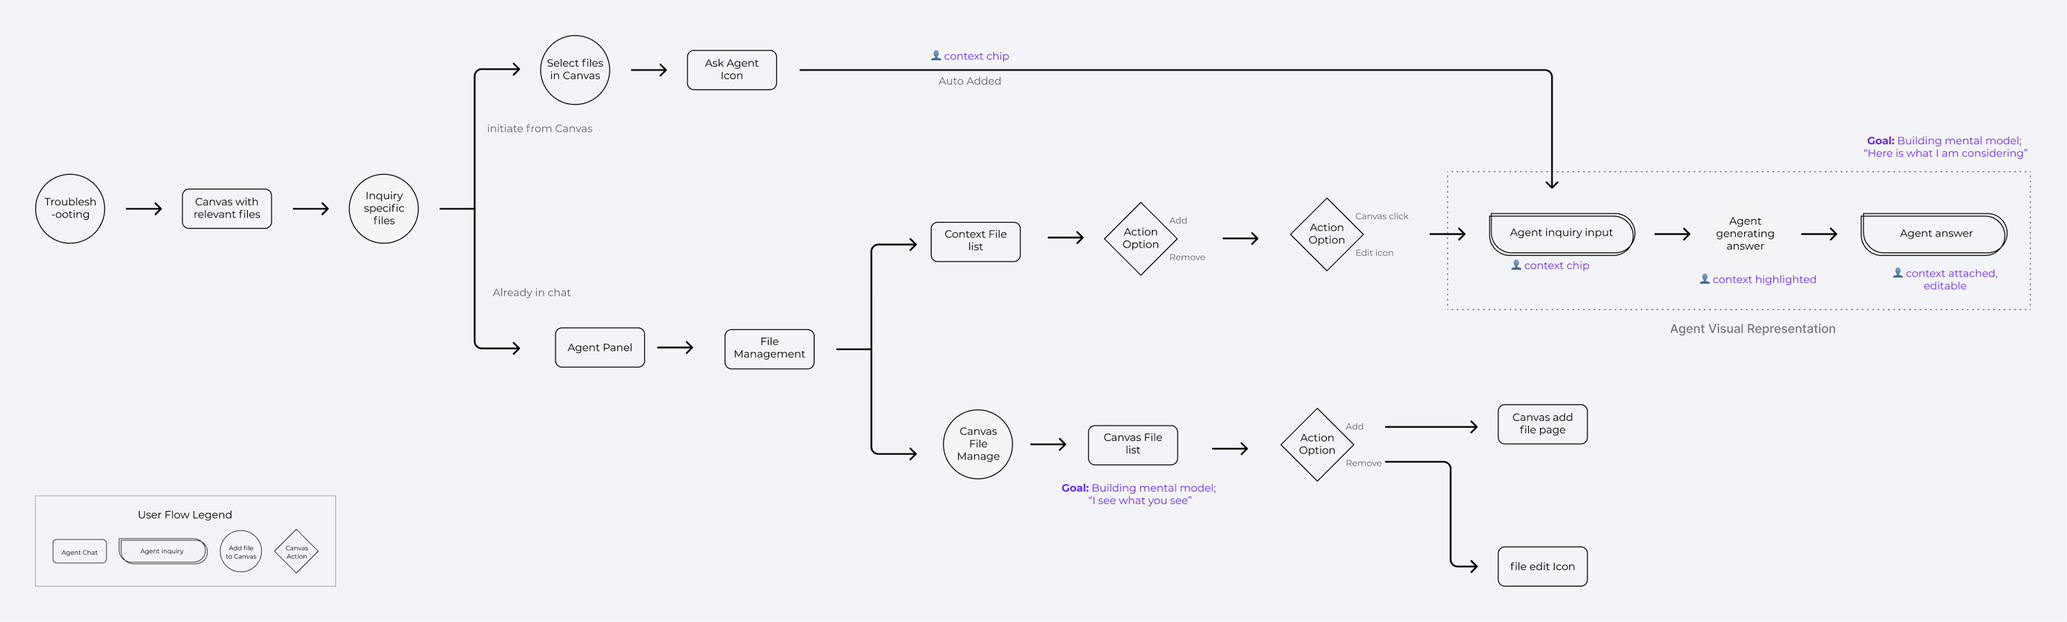
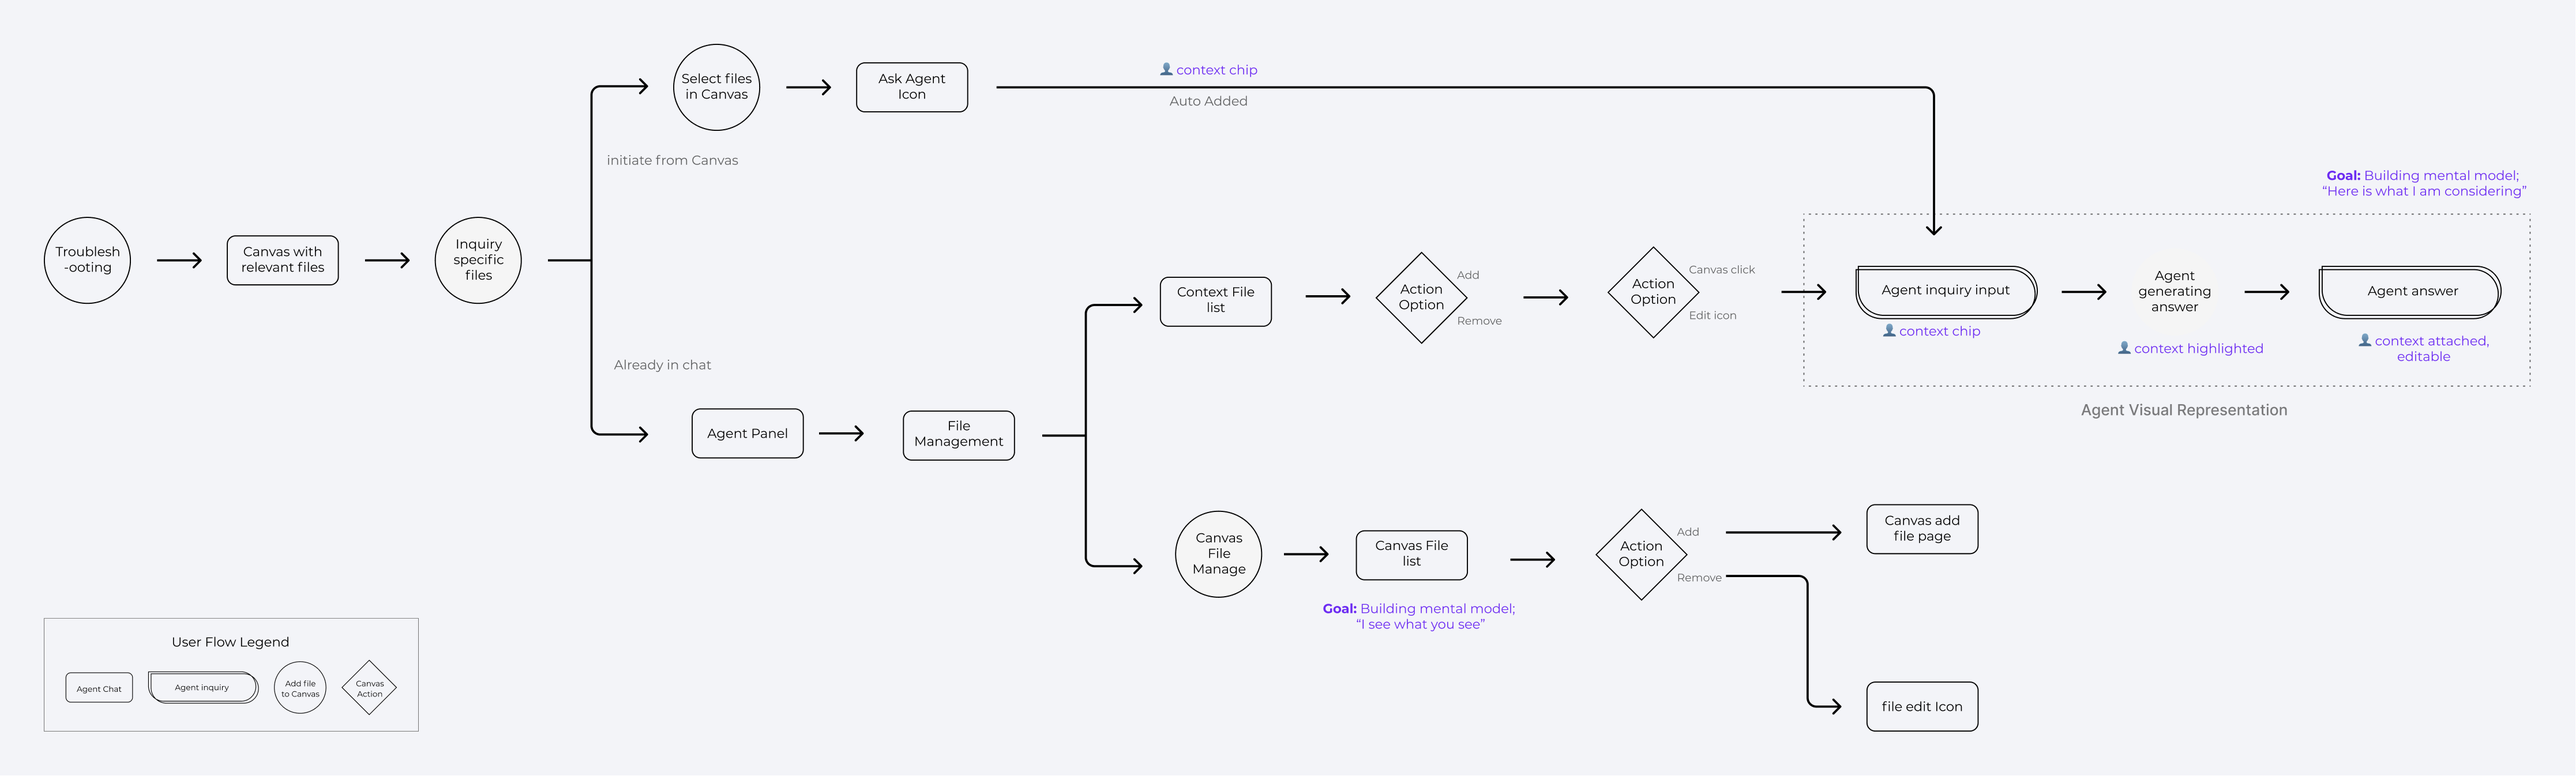
Rework the expand modal and fix its blurry "actual size"
The modal opened at the image's natural width in CSS pixels, which on a
2x display stretches the artwork across twice as many device pixels — a
clean 2x upscale, and the reason it looked soft. Actual size now means 1:1
with real device pixels (naturalWidth / devicePixelRatio), measured at an
upscale factor of 1.0.

Modal changes:
- Backdrop is 50% black rather than near-opaque
- Opens centred at actual size, scrollable, drag-to-pan unchanged
- The image sits on its own #FAFAFC surface. The diagram is transparent line
  art and its dark strokes were close to unreadable over a dark backdrop.
- Centring uses margin:auto, not align-items. Centring an overflowing child
  with align-items makes its top/left unreachable by scrolling.
- The "Drag to explore" hint gets a solid pill; at actual size the artwork
  scrolls under the bar and the gradient scrim alone was not enough contrast.
  Buttons anchor right with margin-left:auto so hiding the hint cannot move
  them, which space-between alone allowed.

context-flow.png is re-exported from the source vector frame at 3x rather
than upscaled from the flattened raster, whose embedded bitmap capped real
detail at 2977px. 4466x1346 now, and 188KB versus the 284KB it replaces —
vector renders compress better than interpolated bitmaps. Sharp expanded
view at 2233 CSS px.

diff --git a/portfolio.html b/portfolio.html
@@ -569,7 +569,7 @@
 
         <figure style="margin:4em 0;">
           <button type="button" data-zoom="images/cognite-atlas/context-flow.png" aria-label="Expand diagram: exploration flows for canvas context" style="display:block; position:relative; width:100%; padding:0; border:0; background:transparent; cursor:zoom-in; font:inherit; color:inherit;">
-            <img src="images/cognite-atlas/context-flow.png" alt="Exploration flows for canvas context: entry points, context management, and the two mental-model goals." style="width:100%; display:block; aspect-ratio:2977/897;">
+            <img src="images/cognite-atlas/context-flow.png" alt="Exploration flows for canvas context: entry points, context management, and the two mental-model goals." style="width:100%; display:block; aspect-ratio:4466/1346;">
             <span aria-hidden="true" style="position:absolute; right:12px; bottom:12px; display:flex; align-items:center; gap:7px; padding:7px 12px; background:rgba(15,16,20,.78); color:#fff; font-size:10.5px; font-weight:600; letter-spacing:.1em; text-transform:uppercase;">
               <svg width="11" height="11" viewBox="0 0 12 12" fill="none" stroke="currentColor" stroke-width="1.5" stroke-linecap="round"><path d="M4.6 1.6H1.6v3M7.4 1.6h3v3M7.4 10.4h3v-3M4.6 10.4H1.6v-3"/></svg>
               Expand
@@ -2142,16 +2142,21 @@
     overlay.setAttribute('role', 'dialog');
     overlay.setAttribute('aria-modal', 'true');
     overlay.setAttribute('aria-label', 'Expanded diagram');
-    overlay.style.cssText = 'position:fixed; inset:0; z-index:9999; display:none; background:rgba(15,16,20,.94);';
+    overlay.style.cssText = 'position:fixed; inset:0; z-index:9999; display:none; background:rgba(0,0,0,.5);';
 
+    // display:flex + margin:auto on the child, NOT justify/align-center — centring
+    // an overflowing child with align-items would make its top/left unreachable.
     stage = document.createElement('div');
     stage.tabIndex = 0;
-    stage.style.cssText = 'position:absolute; inset:0; overflow:auto; outline:none; -webkit-overflow-scrolling:touch;';
+    stage.style.cssText = 'position:absolute; inset:0; overflow:auto; outline:none; display:flex;' +
+      'padding:64px 24px 32px; -webkit-overflow-scrolling:touch;';
 
     img = document.createElement('img');
     img.alt = '';
     img.draggable = false;
-    img.style.cssText = 'display:block; max-width:none; user-select:none; -webkit-user-drag:none;';
+    // the artwork is transparent line art, so it needs a light surface of its own
+    // to stay legible against the dark backdrop
+    img.style.cssText = 'display:block; margin:auto; background:#FAFAFC; user-select:none; -webkit-user-drag:none;';
     stage.appendChild(img);
 
     var bar = document.createElement('div');
@@ -2160,11 +2165,17 @@
       'align-items:center; gap:16px; padding:16px 20px 32px; pointer-events:none;' +
       'background:linear-gradient(rgba(15,16,20,.9), rgba(15,16,20,0));';
 
+    // the artwork scrolls under the bar at actual size, so the hint needs its own
+    // backing rather than relying on the scrim
     hint = document.createElement('div');
-    hint.style.cssText = 'font-size:10.5px; font-weight:600; letter-spacing:.1em; text-transform:uppercase; color:rgba(255,255,255,.75);';
+    hint.style.cssText = 'font-size:10.5px; font-weight:600; letter-spacing:.1em; text-transform:uppercase;' +
+      'color:rgba(255,255,255,.85); background:rgba(15,16,20,.86); padding:7px 13px;' +
+      'border:1px solid rgba(255,255,255,.3);';
 
+    // margin-left:auto keeps these right-aligned even when the hint is hidden,
+    // which space-between alone would not
     var actions = document.createElement('div');
-    actions.style.cssText = 'display:flex; gap:8px; pointer-events:auto;';
+    actions.style.cssText = 'display:flex; gap:8px; pointer-events:auto; margin-left:auto;';
     fitBtn = mkBtn('Actual size');
     closeBtn = mkBtn('Close');
     actions.appendChild(fitBtn);
@@ -2180,16 +2191,25 @@
 
   function applyZoom() {
     if (fitted) {
-      img.style.width = '100%';
+      // contain within the stage, both axes — nothing to scroll, sits centred
+      img.style.width = 'auto';
       img.style.height = 'auto';
+      img.style.maxWidth = '100%';
+      img.style.maxHeight = '100%';
       fitBtn.textContent = 'Actual size';
       hint.textContent = '';
+      hint.style.display = 'none';
       stage.style.cursor = 'default';
     } else {
-      img.style.width = img.naturalWidth + 'px';
+      img.style.maxWidth = 'none';
+      img.style.maxHeight = 'none';
+      // 1:1 with the display's real pixels. Setting width to naturalWidth in CSS px
+      // would upscale by devicePixelRatio on a retina screen and look soft.
+      img.style.width = (img.naturalWidth / (window.devicePixelRatio || 1)) + 'px';
       img.style.height = 'auto';
       fitBtn.textContent = 'Fit to screen';
       hint.textContent = 'Drag to explore';
+      hint.style.display = 'block';
       stage.style.cursor = 'grab';
       // centre on the middle of the diagram
       stage.scrollLeft = (stage.scrollWidth - stage.clientWidth) / 2;
@@ -2205,9 +2225,10 @@
     overlay.style.display = 'block';
     prevOverflow = document.body.style.overflow;
     document.body.style.overflow = 'hidden';
-    // open at actual size when the image is wider than the viewport — that is the point of it
+    // open at actual size — the artwork is authored at a readable scale, so this is
+    // the useful view; "Fit to screen" is there to get your bearings
     var start = function () {
-      fitted = img.naturalWidth <= window.innerWidth;
+      fitted = false;
       applyZoom();
     };
     if (img.complete && img.naturalWidth) start(); else img.onload = start;
